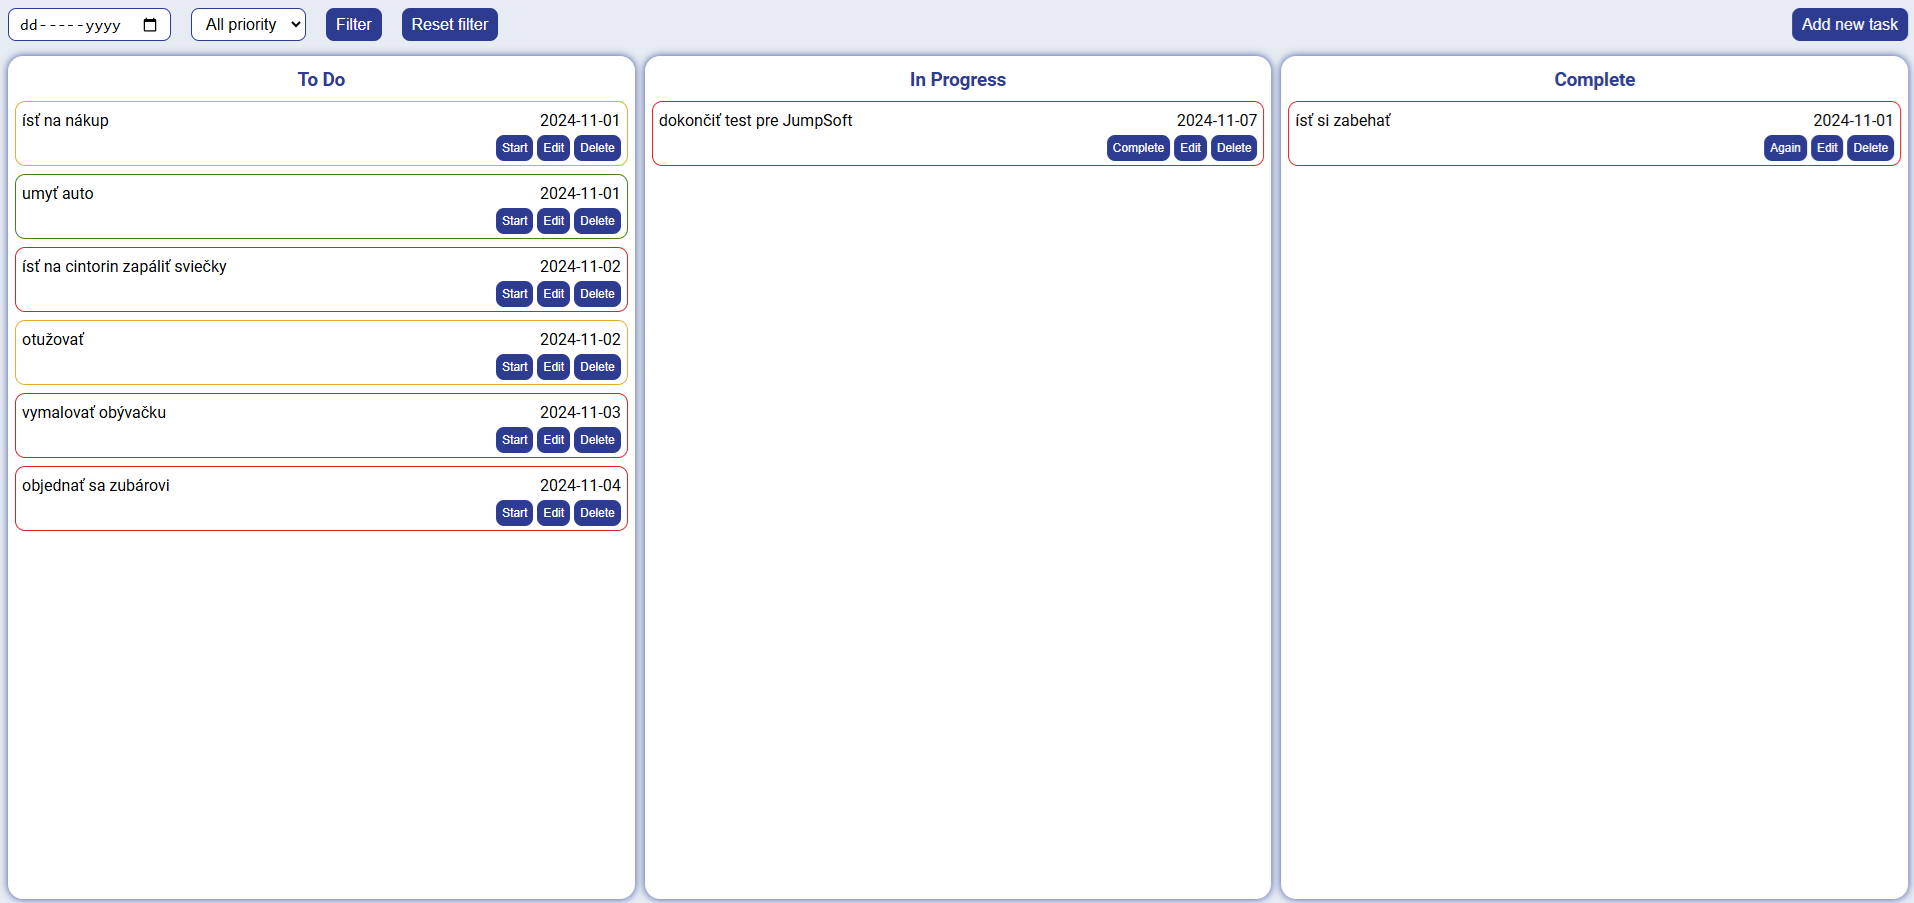
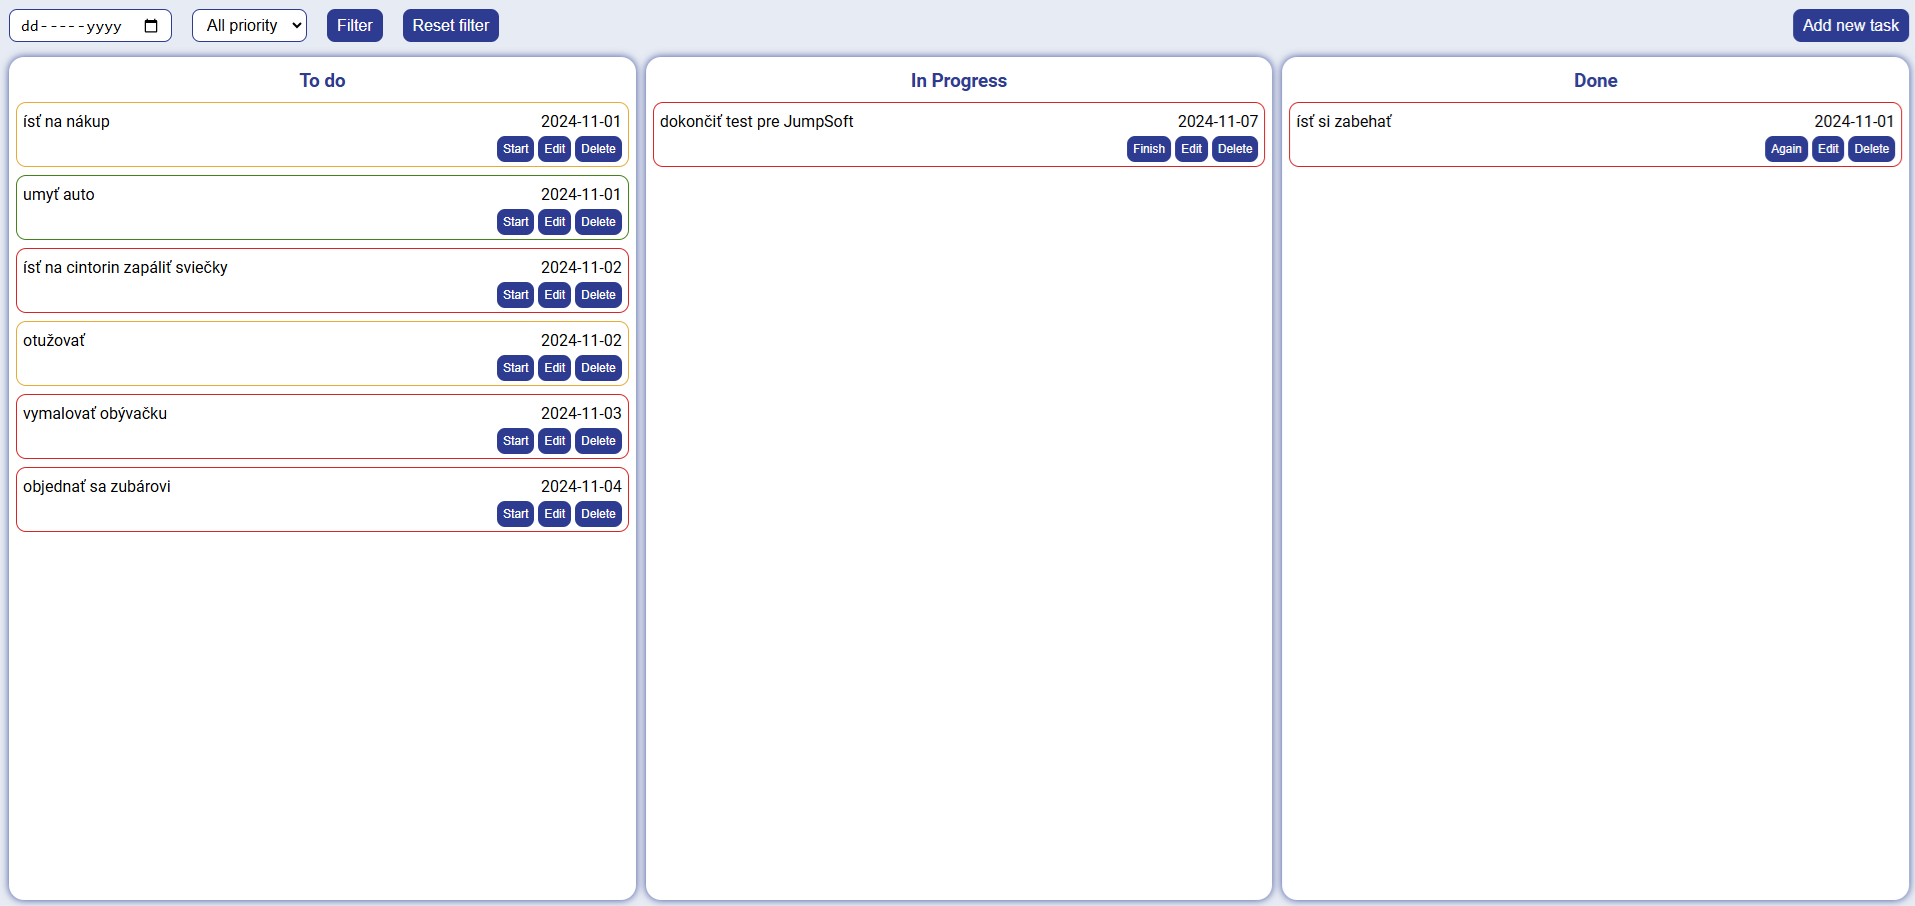
uprava popisov

diff --git a/src/components/ToDoWrapper.jsx b/src/components/ToDoWrapper.jsx
@@ -52,19 +52,19 @@ const ToDoWrapper = ({toDos, setToDos, setTaskToEdit, setOpenPopup }) => {
 
   return (
     <div className='boxes'>
-        <ToDoBox title="To Do" 
+        <ToDoBox title={TodoState.TODO}
           taskList={getTasksByState(toDos, TodoState.TODO)} 
           changeState={changeStateHandler} 
           editTask={editTaskHandler}
           deleteTask={deleteTaskHandler}
           />
-        <ToDoBox title="In Progress" 
+        <ToDoBox title={TodoState.IN_PROGRESS}
           taskList={getTasksByState(toDos, TodoState.IN_PROGRESS)} 
           changeState={changeStateHandler}
           editTask={editTaskHandler}
           deleteTask={deleteTaskHandler} 
           />
-        <ToDoBox title="Complete" 
+        <ToDoBox title={TodoState.COMPLETE} 
           taskList={getTasksByState(toDos, TodoState.COMPLETE)} 
           changeState={changeStateHandler} 
           editTask={editTaskHandler}

diff --git a/src/components/Task.jsx b/src/components/Task.jsx
@@ -10,7 +10,7 @@ const Task = ({todo, changeState, editTask, deleteTask}) => {
     switch(todo.state)
     {
       case TodoState.TODO: return "Start" 
-      case TodoState.IN_PROGRESS: return "Complete"
+      case TodoState.IN_PROGRESS: return "Finish"
       case TodoState.COMPLETE: return "Again"
       default: return "Again" 
     }

diff --git a/README.md b/README.md
@@ -17,13 +17,13 @@ Aplikácia je postavená na technológiách Node.js (v21.6.2) a React.
 Po spustení aplikácia skontroluje, či v `localStorage` existujú staršie záznamy. Ak áno, tieto záznamy načíta do premennej vo forme zoznamu/poľa objektov.
 Aplikácia umožňuje pridať novú úlohu s parametrami: popis úlohy, dátum dokončenia a priorita úlohy.
 Po pridaní novej úlohy aplikácia pridá úlohe ID a stav „TODO”, aktualizuje zoznam úloh a zoradí ho podľa dátumu a priority.
-Aktualizovaný zoznam sa uloží do `localStorage` a úlohy sa na základe ich stavu (TODO, IN_PROGRESS, COMPLETE) zobrazia v troch stĺpcoch.
+Aktualizovaný zoznam sa uloží do `localStorage` a úlohy sa na základe ich stavu (TODO, IN_PROGRESS, DONE) zobrazia v troch stĺpcoch.
 
 Pri opakovaní úlohy (po kliknutí na 'Again') program skontroluje termín úlohy. Ak je v minulosti, nastaví ho na aktuálny dátum.
 
 Každá úloha obsahuje 3 tlačidlá:
 
-1. Prepínanie stavu: To Do -> In Progress -> Complete -> Again.
+1. Prepínanie stavu: To Do -> In Progress -> Done -> Again.
 2. Úprava úlohy.
 3. Vymazanie úlohy zo zoznamu.
 
